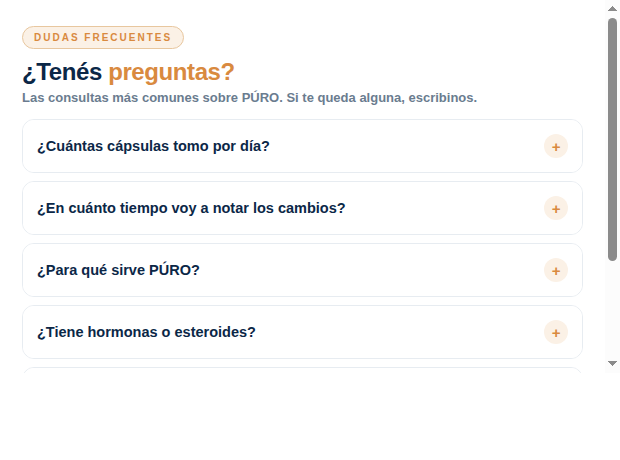
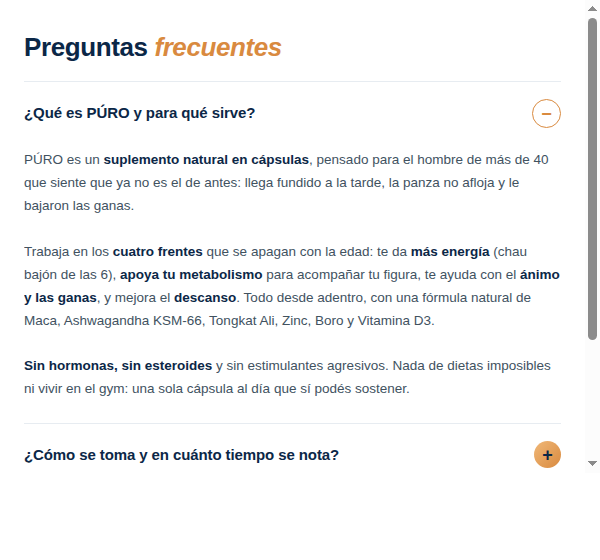
FAQ estilo simple (líneas) con respuestas largas para Diego
Rehace el FAQ al estilo de líneas con + ámbar, respuestas largas y
detalladas adaptadas a Diego (qué es, cómo se toma, hormonas, envíos
10-15 días), navy + ámbar.

Claude-Session: https://claude.ai/code/session_01Y7XaXvcYeyQEvcHn4DeuRQ

diff --git a/marca/web/faq.html b/marca/web/faq.html
@@ -1,47 +1,57 @@
-<style>
-.puro-faq{background:#ffffff;max-width:620px;margin:0 auto;padding:18px 14px;font-family:-apple-system,BlinkMacSystemFont,"Segoe UI",Roboto,Arial,sans-serif;box-sizing:border-box;}
-.puro-faq *{box-sizing:border-box}
-.puro-faq-tag{display:inline-block;color:#d98a3f;background:#fbf1e6;border:1px solid #e8c79f;font-size:10px;font-weight:900;letter-spacing:2px;text-transform:uppercase;padding:5px 11px;border-radius:999px;}
-.puro-faq-h{margin:9px 0 4px;color:#0B2747;font-size:24px;font-weight:900;letter-spacing:-.4px;}
-.puro-faq-h em{color:#d98a3f;font-style:normal}
-.puro-faq-sub{margin:0 0 14px;color:#6a7c8f;font-size:13px;font-weight:600}
-.puro-faq-item{border:1px solid #e7ecf1;border-radius:12px;margin-bottom:8px;overflow:hidden;background:#fff;transition:border-color .2s}
-.puro-faq-item.open{border-color:#e8c79f}
-.puro-faq-q{display:flex;justify-content:space-between;align-items:center;gap:12px;width:100%;border:none;background:#fff;cursor:pointer;padding:14px 14px;text-align:left;font-family:inherit;}
-.puro-faq-q span{color:#0B2747;font-size:14.5px;font-weight:800;line-height:1.25}
-.puro-faq-ic{width:24px;height:24px;border-radius:50%;background:#fbf1e6;color:#d98a3f;display:flex;align-items:center;justify-content:center;font-size:15px;font-weight:900;flex-shrink:0;transition:transform .25s}
-.puro-faq-item.open .puro-faq-ic{transform:rotate(45deg)}
-.puro-faq-a{max-height:0;overflow:hidden;transition:max-height .3s ease;}
-.puro-faq-a p{margin:0;padding:0 14px 14px;color:#5a6b7d;font-size:13px;line-height:1.5;font-weight:500}
-</style>
+<section class="puro-faq2">
+  <h2>Preguntas <span>frecuentes</span></h2>
 
-<section class="puro-faq">
-  <span class="puro-faq-tag">Dudas frecuentes</span>
-  <h2 class="puro-faq-h">¿Tenés <em>preguntas?</em></h2>
-  <p class="puro-faq-sub">Las consultas más comunes sobre PÚRO. Si te queda alguna, escribinos.</p>
-
-  <div class="puro-faq-list" id="puroFaq">
-    <div class="puro-faq-item"><button class="puro-faq-q"><span>¿Cuántas cápsulas tomo por día?</span><i class="puro-faq-ic">+</i></button><div class="puro-faq-a"><p>Una sola cápsula por día, con el desayuno y un vaso de agua. Simple de sostener.</p></div></div>
-    <div class="puro-faq-item"><button class="puro-faq-q"><span>¿En cuánto tiempo voy a notar los cambios?</span><i class="puro-faq-ic">+</i></button><div class="puro-faq-a"><p>La mayoría nota más energía en las primeras semanas. Los cambios en la figura suelen verse a partir del primer o segundo mes, con constancia.</p></div></div>
-    <div class="puro-faq-item"><button class="puro-faq-q"><span>¿Para qué sirve PÚRO?</span><i class="puro-faq-ic">+</i></button><div class="puro-faq-a"><p>Es un suplemento natural para hombres de más de 40 que apoya el metabolismo, la energía, el ánimo y el descanso. Te ayuda a recuperar tu vitalidad.</p></div></div>
-    <div class="puro-faq-item"><button class="puro-faq-q"><span>¿Tiene hormonas o esteroides?</span><i class="puro-faq-ic">+</i></button><div class="puro-faq-a"><p>No. PÚRO es 100% natural, sin hormonas ni esteroides. Por eso es seguro para tomar todos los días.</p></div></div>
-    <div class="puro-faq-item"><button class="puro-faq-q"><span>¿Lo puedo tomar si tengo el estómago sensible?</span><i class="puro-faq-ic">+</i></button><div class="puro-faq-a"><p>Sí, se recomienda tomarlo con una comida. Si tomás medicación o tenés alguna condición, consultá a tu médico antes.</p></div></div>
-    <div class="puro-faq-item"><button class="puro-faq-q"><span>¿Cuánto tarda en llegar mi pedido?</span><i class="puro-faq-ic">+</i></button><div class="puro-faq-a"><p>Hacemos envíos a todo el país. El pedido llega en aproximadamente 10 a 15 días hábiles.</p></div></div>
+  <div class="puro-faq2-item">
+    <button>¿Qué es PÚRO y para qué sirve?</button>
+    <div class="puro-faq2-answer">
+      <p>PÚRO es un <strong>suplemento natural en cápsulas</strong>, pensado para el hombre de más de 40 que siente que ya no es el de antes: llega fundido a la tarde, la panza no afloja y le bajaron las ganas.<br><br>Trabaja en los <strong>cuatro frentes</strong> que se apagan con la edad: te da <strong>más energía</strong> (chau bajón de las 6), <strong>apoya tu metabolismo</strong> para acompañar tu figura, te ayuda con el <strong>ánimo y las ganas</strong>, y mejora el <strong>descanso</strong>. Todo desde adentro, con una fórmula natural de Maca, Ashwagandha KSM-66, Tongkat Ali, Zinc, Boro y Vitamina D3.<br><br><strong>Sin hormonas, sin esteroides</strong> y sin estimulantes agresivos. Nada de dietas imposibles ni vivir en el gym: una sola cápsula al día que sí podés sostener.</p>
+    </div>
   </div>
+
+  <div class="puro-faq2-item">
+    <button>¿Cómo se toma y en cuánto tiempo se nota?</button>
+    <div class="puro-faq2-answer">
+      <p>Súper simple: <strong>1 cápsula por día</strong>, con el desayuno y un vaso de agua. Sin polvos, sin batidos, sin preparar nada. Cada frasco trae 60 cápsulas, así que te rinde <strong>2 meses</strong>.<br><br>No es un producto de efecto mágico: trabaja desde adentro y eso lleva su tiempo. La mayoría empieza a notar <strong>más energía y menos hinchazón en las primeras semanas</strong>, y los cambios en la figura se sienten más con el uso diario y constante, al mes o dos.<br><br>La clave es una sola: <strong>constancia</strong>. Como es una sola cápsula y es fácil, no cuesta nada sostenerla. <em>Los resultados pueden variar según cada persona.</em></p>
+    </div>
+  </div>
+
+  <div class="puro-faq2-item">
+    <button>¿Tiene hormonas? ¿Quién no debería tomarlo?</button>
+    <div class="puro-faq2-answer">
+      <p>PÚRO es un <strong>suplemento dietario</strong>, con ingredientes naturales y <strong>sin hormonas, esteroides ni estimulantes agresivos</strong>. No es un medicamento: no diagnostica, no trata ni cura ninguna enfermedad.<br><br>No se recomienda en <strong>menores de 18 años</strong>. Si tomás alguna medicación, tenés una condición de salud o estás en tratamiento médico, lo más responsable es que <strong>consultes con tu médico</strong> antes de incorporarlo. No superes la dosis de una cápsula por día.<br><br>No reemplaza una alimentación variada ni hábitos saludables: es un <strong>acompañante</strong>, no un reemplazo.</p>
+    </div>
+  </div>
+
+  <div class="puro-faq2-item">
+    <button>¿Cómo y cuándo llega mi pedido?</button>
+    <div class="puro-faq2-answer">
+      <p>Hacemos <strong>envíos a todo el país</strong>. Los plazos son de aproximadamente <strong>10 a 15 días hábiles</strong>.<br><br>Apenas despachamos tu pedido te llega un <strong>mail con el código de seguimiento</strong> para que veas dónde está tu paquete en todo momento. Va protegido y embalado con cuidado, en una <strong>caja discreta</strong>.<br><br><strong>Envío gratis</strong> en los packs de varios frascos. Para un solo frasco, el costo se calcula en el checkout según tu código postal y lo ves antes de confirmar la compra.</p>
+    </div>
+  </div>
+
 </section>
 
+<style>
+.puro-faq2{max-width:600px;margin:0 auto;padding:24px 16px;background:#ffffff;font-family:-apple-system,BlinkMacSystemFont,"Segoe UI",Roboto,Arial,sans-serif;box-sizing:border-box}
+.puro-faq2 *{box-sizing:border-box}
+.puro-faq2 h2{margin:0 0 18px;font-size:26px;font-weight:900;color:#0B2747;letter-spacing:-.4px}
+.puro-faq2 h2 span{color:#d98a3f;font-style:italic;font-weight:800}
+.puro-faq2-item{border-bottom:1px solid #e7ecf1}
+.puro-faq2-item:first-of-type{border-top:1px solid #e7ecf1}
+.puro-faq2-item button{width:100%;background:none;border:0;padding:17px 0;text-align:left;font-size:15px;font-weight:850;color:#0B2747;display:flex;justify-content:space-between;align-items:center;gap:12px;cursor:pointer;font-family:inherit;letter-spacing:-.1px;line-height:1.35;transition:opacity .2s ease}
+.puro-faq2-item button:hover{opacity:.7}
+.puro-faq2-item button::after{content:"+";font-size:18px;font-weight:700;color:#0B2747;flex-shrink:0;width:27px;height:27px;border-radius:50%;background:linear-gradient(135deg,#f0b878,#d98a3f);display:flex;align-items:center;justify-content:center;line-height:1;transition:all .3s ease}
+.puro-faq2-item.active button::after{content:"−";background:#fff;color:#d98a3f;border:1.5px solid #d98a3f}
+.puro-faq2-answer{max-height:0;overflow:hidden;transition:max-height .6s ease}
+.puro-faq2-answer p{margin:0;padding:4px 0 22px;font-size:13.5px;line-height:1.7;color:#41525f;font-weight:500}
+.puro-faq2-answer p strong{color:#0B2747;font-weight:850}
+.puro-faq2-answer p em{color:#8a9bad}
+.puro-faq2-item.active .puro-faq2-answer{max-height:2000px}
+@media(min-width:680px){.puro-faq2{padding:34px 22px}.puro-faq2 h2{font-size:32px;margin-bottom:24px}.puro-faq2-item button{font-size:16.5px;padding:19px 0}.puro-faq2-answer p{font-size:14.5px;padding-bottom:24px;line-height:1.75}}
+</style>
+
 <script>
-(function(){
-  function init(){
-    var f=document.getElementById('puroFaq');if(!f)return;
-    f.querySelectorAll('.puro-faq-q').forEach(function(b){
-      b.addEventListener('click',function(){
-        var it=b.parentElement, a=b.nextElementSibling, open=it.classList.contains('open');
-        it.classList.toggle('open');
-        a.style.maxHeight=open?null:a.scrollHeight+'px';
-      });
-    });
-  }
-  if(document.readyState==='loading'){document.addEventListener('DOMContentLoaded',init);}else{init();}
-})();
+document.querySelectorAll('.puro-faq2-item button').forEach(function(btn){
+  btn.addEventListener('click',function(){btn.parentElement.classList.toggle('active');});
+});
 </script>
